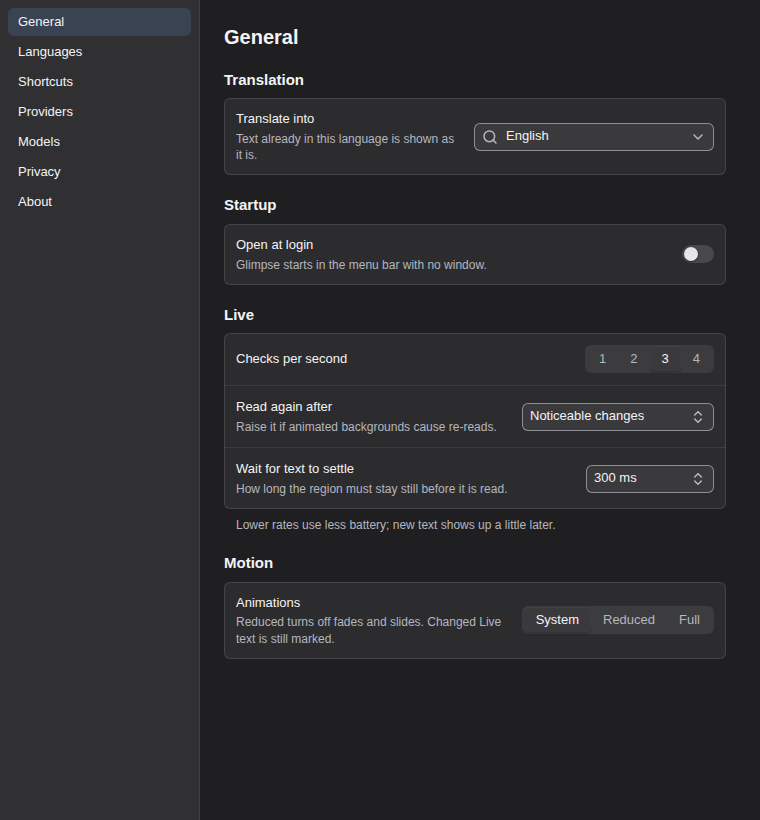
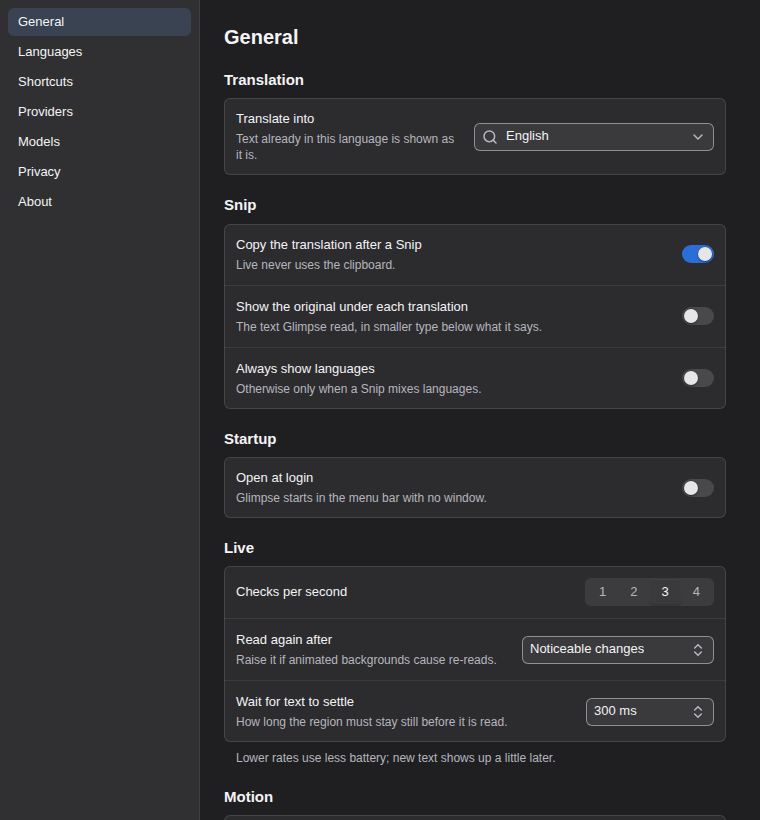
GLIM-117: Settings controls for the Snip popup options, and pane deep links
General gets a Snip group with three switches (copy after Snip, show the original under each
translation, always show languages) writing settings.snip.*; snip is now an editable section.
SettingsWindow.open(section) opens at a pane: the first snapshot carries it, and an open
window switches through a showSection push. The popup's Check key... and Edit source
languages... now open Providers and Languages. The popup and picker read AppSettings.current
instead of the settings loaded at startup, so changes apply to the next Snip.

diff --git a/app/test/settings-window.test.ts b/app/test/settings-window.test.ts
@@ -31,7 +31,7 @@ import { ModelManager } from "../src/bun/services/models/model-manager.ts";
 import { folderSize, ModelsSettings } from "../src/bun/services/models/models-settings.ts";
 import { ModelManagerPackSource } from "../src/bun/services/translation/bergamot-packs.ts";
 import { createSettingsHandlers, providerSummaries, type SettingsDeps } from "../src/bun/windows/settings-handlers.ts";
-import type { HotkeyStatus } from "../src/shared/settings-rpc.ts";
+import { type HotkeyStatus, isSettingsSection, SETTINGS_SECTIONS } from "../src/shared/settings-rpc.ts";
 
 const env: SettingsEnv = {
 	hotkeys: DEFAULT_HOTKEYS.windows,
@@ -216,6 +216,39 @@ describe("settings handlers", () => {
 		expect(settings.current.hotkeys.snip).toBe("Alt+Shift+S");
 		expect(settings.current.system.launchAtLogin).toBe(false);
 		expect((await h.updateSettings("nope")).issues).toHaveLength(1);
+	});
+
+	test("Snip options are editable from Settings (GLIM-117)", async () => {
+		const { h, settings } = handlers();
+		expect(settings.current.snip).toEqual({
+			copyAfterSnip: true,
+			showOriginalUnder: false,
+			alwaysShowLanguages: false,
+		});
+		const r = await h.updateSettings({
+			snip: { copyAfterSnip: false, showOriginalUnder: true, alwaysShowLanguages: true },
+		});
+		expect(r.issues).toEqual([]);
+		expect(settings.current.snip).toEqual({ copyAfterSnip: false, showOriginalUnder: true, alwaysShowLanguages: true });
+		const bad = await h.updateSettings({ snip: { copyAfterSnip: "yes" } } as never);
+		expect(bad.issues.map((i) => i.path)).toEqual(["snip.copyAfterSnip"]);
+		expect(settings.current.snip.copyAfterSnip).toBe(false);
+	});
+
+	test("the snapshot names the pane Settings was opened at (GLIM-117)", async () => {
+		expect((await handlers().h.getSnapshot()).section).toBeNull();
+		let section: "providers" | "languages" | null = "providers";
+		const { h } = handlers({ initialSection: () => section });
+		expect((await h.getSnapshot()).section).toBe("providers");
+		section = "languages";
+		expect((await h.getSnapshot()).section).toBe("languages");
+	});
+
+	test("isSettingsSection accepts the sidebar's panes only", () => {
+		expect(SETTINGS_SECTIONS).toContain("providers");
+		expect(isSettingsSection("languages")).toBe(true);
+		expect(isSettingsSection("hotkeys")).toBe(false);
+		expect(isSettingsSection(3)).toBe(false);
 	});
 
 	test("source languages are validated against the language module (GLIM-68)", async () => {

diff --git a/app/src/bun/windows/settings.ts b/app/src/bun/windows/settings.ts
@@ -1,5 +1,5 @@
 import { BrowserView, BrowserWindow } from "electrobun/main";
-import type { SettingsRPC } from "../../shared/settings-rpc.ts";
+import type { SettingsRPC, SettingsSection } from "../../shared/settings-rpc.ts";
 import type { CaptureExclusion } from "./capture-exclusion.ts";
 import type { SettingsDeps } from "./settings-handlers.ts";
 import { createSettingsHandlers } from "./settings-handlers.ts";
@@ -14,18 +14,25 @@ import { createSettingsHandlers } from "./settings-handlers.ts";
 export class SettingsWindow {
 	private window: BrowserWindow | null = null;
 	private unsubscribe: (() => void)[] = [];
+	/** Switches the open view to a pane (set while the window exists). */
+	private showSection: ((section: SettingsSection) => void) | null = null;
+	/** The pane a new window opens at; the view reads it with its first snapshot. */
+	private initialSection: SettingsSection | null = null;
 
 	constructor(
 		readonly deps: SettingsDeps,
 		private readonly exclusion: CaptureExclusion,
 	) {}
 
-	open(): void {
+	/** Open (or bring forward) Settings, at `section` if given (GLIM-117: popup deep links). */
+	open(section?: SettingsSection): void {
 		if (this.window) {
+			if (section) this.showSection?.(section);
 			this.window.activate();
 			return;
 		}
-		const h = createSettingsHandlers(this.deps);
+		this.initialSection = section ?? null;
+		const h = createSettingsHandlers({ ...this.deps, initialSection: () => this.initialSection });
 		const rpc = BrowserView.defineRPC<SettingsRPC>({
 			// Moving models between volumes can take a while.
 			maxRequestTime: 10 * 60_000,
@@ -80,10 +87,17 @@ export class SettingsWindow {
 			this.deps.cloud.subscribe((s) => rpc.send.cloudChanged(s)),
 			...(this.deps.updates ? [this.deps.updates.subscribe((s) => rpc.send.updateChanged(s))] : []),
 		];
+		this.showSection = (s) => {
+			// A reload of the view (or a late first snapshot) opens at the latest ask too.
+			this.initialSection = s;
+			rpc.send.showSection(s);
+		};
 		win.on("close", () => {
 			for (const u of this.unsubscribe) u();
 			this.unsubscribe = [];
 			this.window = null;
+			this.showSection = null;
+			this.initialSection = null;
 		});
 		this.window = win;
 		this.exclusion.protect(win, () => win.show());

diff --git a/app/src/shared/settings-rpc.ts b/app/src/shared/settings-rpc.ts
@@ -18,16 +18,33 @@ import type { RPCSchema } from "electrobun/view";
 import type { AppInfo } from "./rpc.ts";
 
 /** The parts of Settings the view may patch directly. The rest go through their own request. */
-export type EditableSection = "language" | "appearance" | "live" | "privacy" | "diagnostics" | "updates";
+export type EditableSection = "language" | "appearance" | "snip" | "live" | "privacy" | "diagnostics" | "updates";
 
 export const EDITABLE_SECTIONS: readonly EditableSection[] = [
 	"language",
 	"appearance",
+	"snip",
 	"live",
 	"privacy",
 	"diagnostics",
 	"updates",
 ];
+
+/** The window's panes, in sidebar order. `SettingsWindow.open(section)` opens at one (GLIM-117). */
+export const SETTINGS_SECTIONS = [
+	"general",
+	"languages",
+	"shortcuts",
+	"providers",
+	"models",
+	"privacy",
+	"about",
+] as const;
+
+export type SettingsSection = (typeof SETTINGS_SECTIONS)[number];
+
+export const isSettingsSection = (v: unknown): v is SettingsSection =>
+	typeof v === "string" && (SETTINGS_SECTIONS as readonly string[]).includes(v);
 
 type DeepPartial<T> = T extends readonly unknown[]
 	? T
@@ -236,6 +253,8 @@ export interface SettingsSnapshot {
 	readonly settingsWarnings: readonly string[];
 	/** GLIM-70: whether a newer release is out (About). Pushed again with `updateChanged`. */
 	readonly update: UpdateStatus;
+	/** The pane to open at (a popup's "Check key…" asks for Providers), or null for the first one. */
+	readonly section: SettingsSection | null;
 }
 
 export interface ProviderSummary {
@@ -297,6 +316,8 @@ export type SettingsRPC = {
 			modelsChanged: ModelsSnapshot;
 			cloudChanged: CloudSnapshot;
 			updateChanged: UpdateStatus;
+			/** Switch to a pane: Settings was asked to open at it while already open (GLIM-117). */
+			showSection: SettingsSection;
 		};
 	}>;
 };

diff --git a/app/src/bun/index.ts b/app/src/bun/index.ts
@@ -311,7 +311,7 @@ picker = new PickerController({
 		// Settings fields for these two land with GLIM-105; the spec defaults until then.
 		confirmOnRelease: true,
 		showLoupe: true,
-		reducedMotion: loadedSettings.settings.appearance.motion === "reduced",
+		reducedMotion: appSettings.current.appearance.motion === "reduced",
 	}),
 	// `live` is declared below; this only runs when the picker opens.
 	liveRunning: () => live.active,
@@ -343,8 +343,8 @@ snipPopup = new SnipPopupController({
 	eol: platform === "windows" ? "\r\n" : "\n",
 	targets: {
 		snipAgain: () => picker?.toggle("snip"),
-		// Settings sections arrive with GLIM-69; until then Settings opens at its first pane.
-		openSettings: () => settings.open(),
+		// "Check key…" opens Providers, "Edit source languages…" Languages (GLIM-117).
+		openSettings: (section) => settings.open(section),
 		openExternal: (url) => {
 			if (!Utils.openExternal(url)) popupLog.warn("could not open a link", { url });
 		},
@@ -352,11 +352,11 @@ snipPopup = new SnipPopupController({
 	focus: pickerNatives.focus,
 	results: { dismiss: () => picker?.dismiss() },
 	settings: () => ({
-		reducedMotion: loadedSettings.settings.appearance.motion === "reduced",
-		alwaysShowLanguages: loadedSettings.settings.snip.alwaysShowLanguages,
-		showOriginalUnder: loadedSettings.settings.snip.showOriginalUnder,
+		reducedMotion: appSettings.current.appearance.motion === "reduced",
+		alwaysShowLanguages: appSettings.current.snip.alwaysShowLanguages,
+		showOriginalUnder: appSettings.current.snip.showOriginalUnder,
 		// Snip only: Live never touches the clipboard (GLIM-71).
-		autoCopy: loadedSettings.settings.snip.copyAfterSnip,
+		autoCopy: appSettings.current.snip.copyAfterSnip,
 		uiDir: "ltr",
 	}),
 	pointer: () => screenProbe.cursor(),

diff --git a/app/src/views/settings/state.ts b/app/src/views/settings/state.ts
@@ -10,6 +10,7 @@ import type {
 	LoginItemStatus,
 	ModelsSnapshot,
 	SettingsEdit,
+	SettingsSection,
 	SettingsSnapshot,
 	SourceLanguagesSnapshot,
 } from "../../shared/settings-rpc.ts";
@@ -27,6 +28,9 @@ export function createSettingsState(client: SettingsClient) {
 	const [error, setError] = createSignal<string | null>(null);
 	// GLIM-70: a newer release, from the snapshot and then `updateChanged`.
 	const [update, setUpdate] = createSignal<UpdateStatus | null>(null);
+	// A pane main asked for (GLIM-117): the first snapshot's `section`, then `showSection` pushes.
+	// Wrapped so asking twice for the same pane still re-selects it.
+	const [requestedSection, setRequestedSection] = createSignal<{ section: SettingsSection } | null>(null);
 
 	client.listen({
 		settingsChanged: (s) => setSettings(s),
@@ -34,6 +38,7 @@ export function createSettingsState(client: SettingsClient) {
 		modelsChanged: (s) => setModels(s),
 		cloudChanged: (s) => setCloud(s),
 		updateChanged: (s) => setUpdate(s),
+		showSection: (section) => setRequestedSection({ section }),
 	});
 
 	const load = async () => {
@@ -44,6 +49,7 @@ export function createSettingsState(client: SettingsClient) {
 			setHotkeys(s.hotkeys);
 			setLoginItem(s.loginItem);
 			setUpdate(s.update);
+			if (s.section) setRequestedSection({ section: s.section });
 		} catch {
 			setError("Couldn't reach the Glimpse app process. Close Settings and open it again from the tray.");
 		}
@@ -59,6 +65,7 @@ export function createSettingsState(client: SettingsClient) {
 		updateStatus: update,
 		languages,
 		error,
+		requestedSection,
 		load,
 		client,
 		async update(edit: SettingsEdit) {

diff --git a/app/src/views/settings/SettingsApp.tsx b/app/src/views/settings/SettingsApp.tsx
@@ -1,5 +1,6 @@
 import { Banner, nextIndex } from "@glimpse/ui";
 import { createEffect, createSignal, For, type JSX, Match, onMount, Show, Switch } from "solid-js";
+import type { SettingsSection } from "../../shared/settings-rpc.ts";
 import type { SettingsClient } from "./client.ts";
 import { AboutPane } from "./panes/AboutPane.tsx";
 import { GeneralPane } from "./panes/GeneralPane.tsx";
@@ -18,9 +19,9 @@ export const SECTIONS = [
 	{ id: "models", label: "Models" },
 	{ id: "privacy", label: "Privacy" },
 	{ id: "about", label: "About" },
-] as const;
+] as const satisfies readonly { id: SettingsSection; label: string }[];
 
-export type SectionId = (typeof SECTIONS)[number]["id"];
+export type SectionId = SettingsSection;
 
 export interface SettingsAppProps {
 	client: SettingsClient;
@@ -60,6 +61,12 @@ export function SettingsApp(props: SettingsAppProps): JSX.Element {
 		document.title = `${label} · Glimpse Settings`;
 		document.getElementById("settings-pane")?.scrollTo({ top: 0 });
 	};
+
+	// Main asked for a pane: the first snapshot's `section`, or "Check key…" while open (GLIM-117).
+	createEffect(() => {
+		const ask = state.requestedSection();
+		if (ask) select(ask.section);
+	});
 
 	const onNavKey = (e: KeyboardEvent, index: number) => {
 		const next = nextIndex(index, SECTIONS.length, e.key, "vertical", { wrap: false });

diff --git a/app/src/views/settings/panes/GeneralPane.tsx b/app/src/views/settings/panes/GeneralPane.tsx
@@ -71,6 +71,33 @@ export function GeneralPane(props: { state: SettingsState }): JSX.Element {
 				</SettingsRow>
 			</SettingsGroup>
 
+			<SettingsGroup title="Snip">
+				<SettingsControlRow>
+					<Switch
+						label="Copy the translation after a Snip"
+						description="Live never uses the clipboard."
+						checked={s().snip.copyAfterSnip}
+						onChange={(v) => void props.state.update({ snip: { copyAfterSnip: v } })}
+					/>
+				</SettingsControlRow>
+				<SettingsControlRow>
+					<Switch
+						label="Show the original under each translation"
+						description="The text Glimpse read, in smaller type below what it says."
+						checked={s().snip.showOriginalUnder}
+						onChange={(v) => void props.state.update({ snip: { showOriginalUnder: v } })}
+					/>
+				</SettingsControlRow>
+				<SettingsControlRow>
+					<Switch
+						label="Always show languages"
+						description="Otherwise only when a Snip mixes languages."
+						checked={s().snip.alwaysShowLanguages}
+						onChange={(v) => void props.state.update({ snip: { alwaysShowLanguages: v } })}
+					/>
+				</SettingsControlRow>
+			</SettingsGroup>
+
 			<SettingsGroup title="Startup">
 				<SettingsControlRow>
 					<Switch

diff --git a/app/src/bun/windows/settings-handlers.ts b/app/src/bun/windows/settings-handlers.ts
@@ -25,6 +25,7 @@ import {
 	type ProviderSummary,
 	type SetHotkeyResult,
 	type SettingsEdit,
+	type SettingsSection,
 	type SettingsSnapshot,
 	type SourceLanguagesSnapshot,
 	type UpdateResult,
@@ -55,6 +56,8 @@ export interface SettingsDeps {
 	readonly uiLocale: string;
 	/** Update notification (GLIM-70); absent = never any update to show. */
 	readonly updates?: UpdatesApi;
+	/** The pane the window was asked to open at (GLIM-117); read when the view loads. */
+	readonly initialSection?: () => SettingsSection | null;
 }
 
 /** What Settings needs from the update checker (services/update-check.ts). */
@@ -96,6 +99,7 @@ export function createSettingsHandlers(deps: SettingsDeps) {
 		providers: deps.providers(),
 		settingsWarnings: deps.settingsWarnings,
 		update: deps.updates?.status() ?? { state: "current", lastCheckAt: null },
+		section: deps.initialSection?.() ?? null,
 	});
 
 	/** Apply bindings with the OS; on refusal for `action`, put the old ones back. */

diff --git a/app/src/views/settings/client.ts b/app/src/views/settings/client.ts
@@ -1,6 +1,12 @@
 // What the Settings view needs from the main process. index.tsx implements it over RPC; the
 // dev-only preview (views/settings-preview) implements it with fake data for screenshots.
-import type { CloudSnapshot, HotkeyStatus, ModelsSnapshot, SettingsRPC } from "../../shared/settings-rpc.ts";
+import type {
+	CloudSnapshot,
+	HotkeyStatus,
+	ModelsSnapshot,
+	SettingsRPC,
+	SettingsSection,
+} from "../../shared/settings-rpc.ts";
 
 type Requests = SettingsRPC["bun"]["requests"];
 
@@ -17,6 +23,8 @@ export interface SettingsPushHandlers {
 	modelsChanged: (s: ModelsSnapshot) => void;
 	cloudChanged: (s: CloudSnapshot) => void;
 	updateChanged: (s: import("@glimpse/core").UpdateStatus) => void;
+	/** Main asks for a pane (Settings opened at a section while already open). */
+	showSection: (s: SettingsSection) => void;
 }
 
 export interface SettingsClient {

diff --git a/app/src/views/settings/index.tsx b/app/src/views/settings/index.tsx
@@ -17,6 +17,7 @@ const rpc = connect<SettingsRPC>(
 			hotkeysChanged: (s) => handlers?.hotkeysChanged(s),
 			modelsChanged: (s) => handlers?.modelsChanged(s),
 			cloudChanged: (s) => handlers?.cloudChanged(s),
+			showSection: (s) => handlers?.showSection(s),
 		},
 	},
 	// Moving the models folder between disks can take minutes.

diff --git a/app/src/views/settings-preview/fake-client.ts b/app/src/views/settings-preview/fake-client.ts
@@ -261,6 +261,7 @@ export function fakeSettingsClient(opts: PreviewOptions): SettingsClient {
 					lastCheckAt: Date.UTC(2026, 10, 1, 9, 30),
 				}
 			: { state: "off" },
+		section: null,
 	});
 
 	const update = (patch: SettingsPatch) => {

diff --git a/ARCHITECTURE.md b/ARCHITECTURE.md
@@ -354,8 +354,8 @@ rules every implementation follows (contract checks in `@glimpse/core/testing` e
   applies, notifies subscribers (log level, tray, open Settings windows) and saves in order,
   so changes apply without a restart. Adding a field with a default needs no migration;
   renaming or reshaping one does (bump `SETTINGS_VERSION`, add a `Migration`, add a fixture test).
-- **Settings window (GLIM-69)**: `app/src/shared/settings-rpc.ts` is the contract. The view
-  may patch only `language`, `appearance`, `live`, `privacy`, `diagnostics`; hotkeys go
+- **Settings window (GLIM-69)**: `app/src/shared/settings-rpc.ts` is the contract. `SettingsWindow.open(section)` opens at a pane (popup deep links, GLIM-117). The view
+  may patch only `language`, `appearance`, `snip`, `live`, `privacy`, `diagnostics`; hotkeys go
   through `setHotkey` (Glimpse conflict check, then the `HotkeyRegistrar` port in
   `services/hotkeys-port.ts`; an OS refusal keeps the old binding), launch at login through
   `LoginItem` (`services/login-item.ts`, GLIM-77 decision), the models folder through
